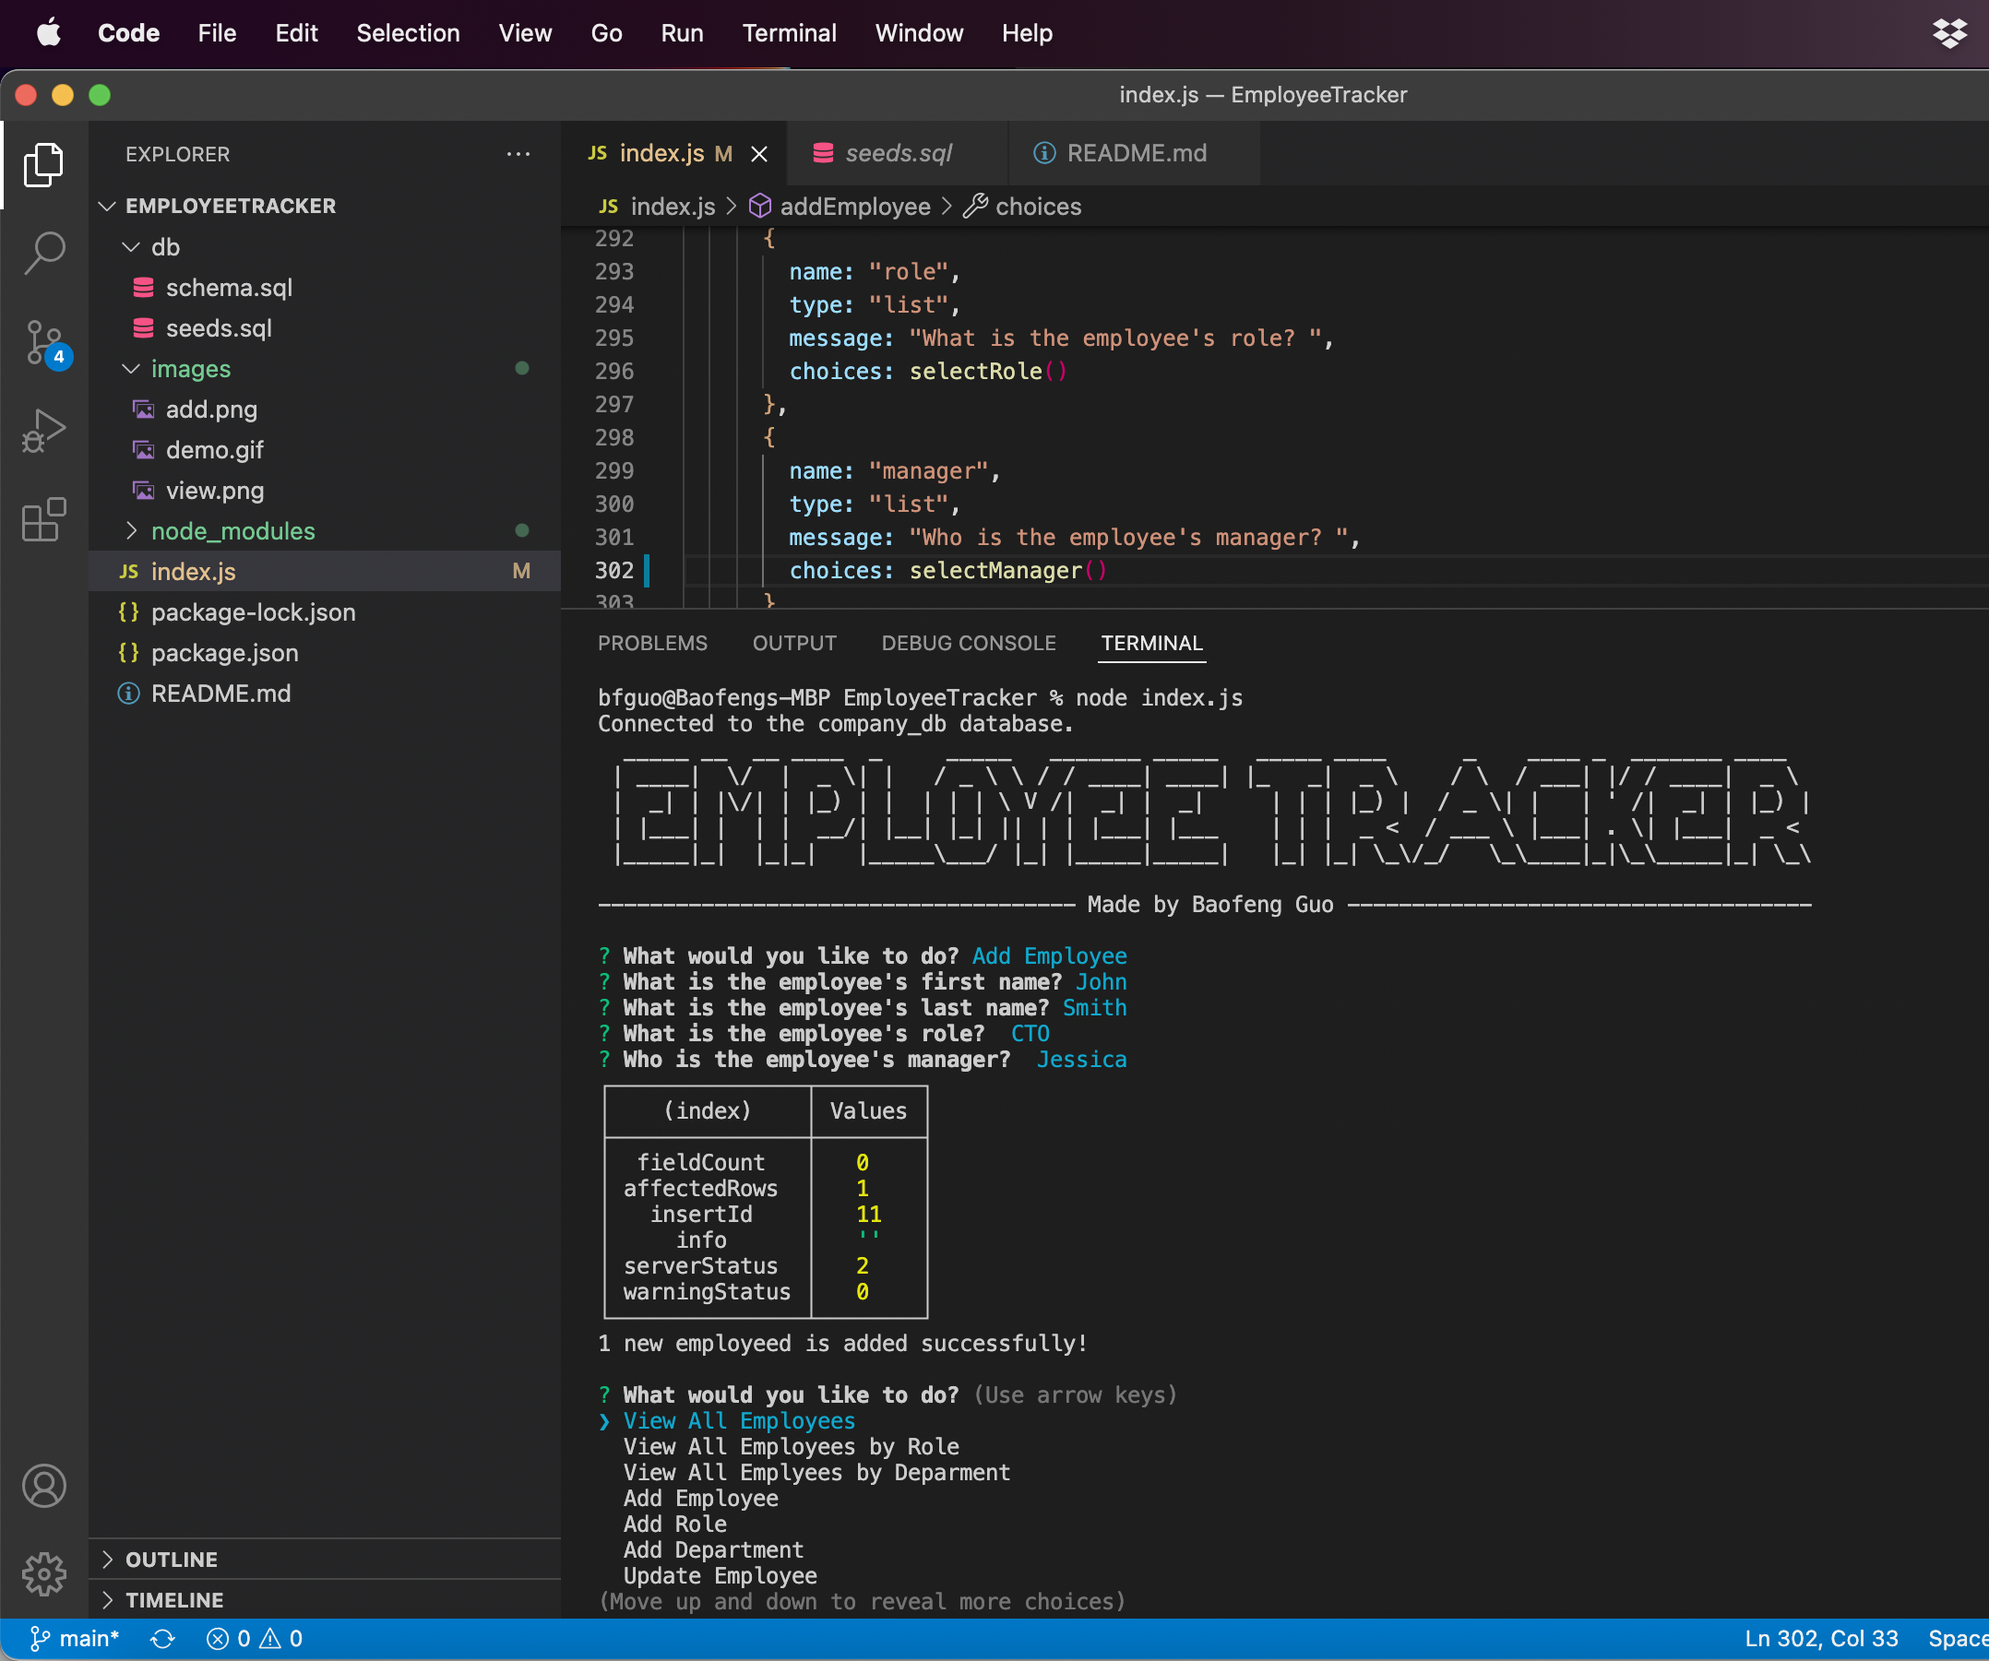
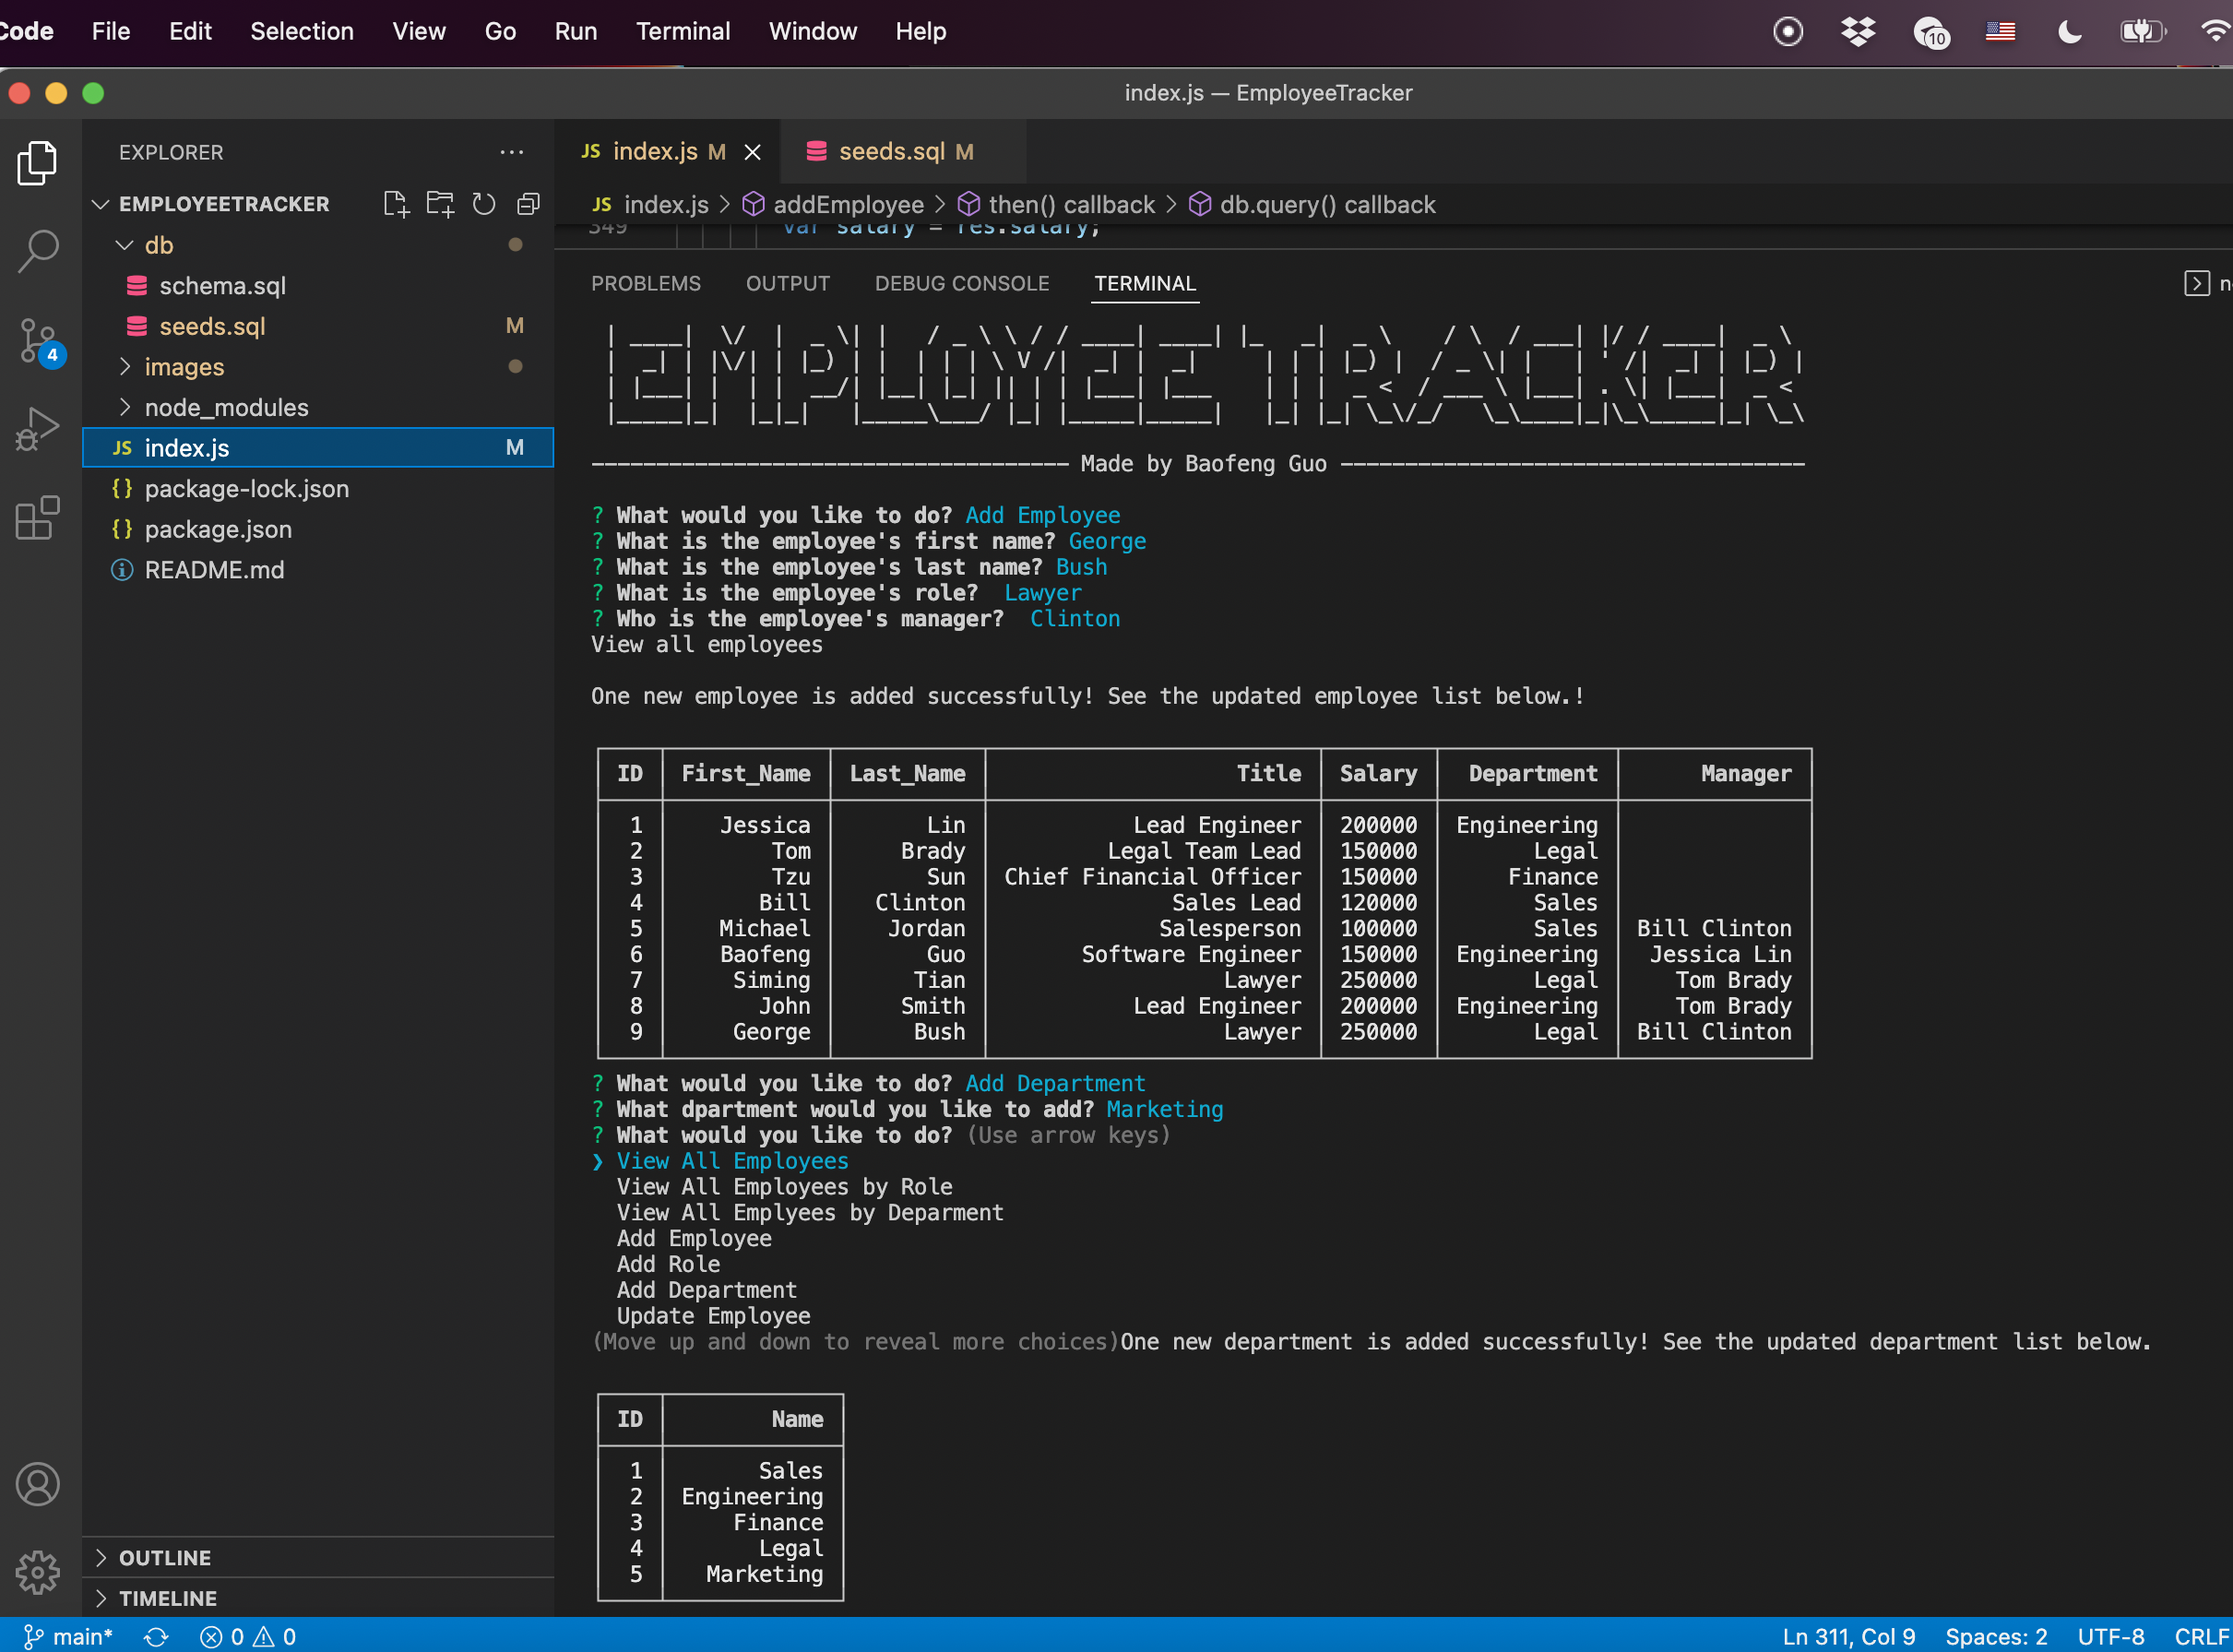
Updated index.js.

diff --git a/index.js b/index.js
@@ -78,36 +78,37 @@ function menuPrompt() {
             viewAllEmployees();
           break;
   
-        case "View All Employees by Role":
-          viewEmployeesByRole();
+          case "View All Employees by Role":
+            viewEmployeesByRole();
           break;
 
-        case "View All Emplyees by Deparment":
-          viewEmployeesByDepartment();
+          case "View All Emplyees by Deparment":
+            viewEmployeesByDepartment();
           break;
 
         // case "View All Employees by Managers":
         //     viewEmployeesByManager();
         //   break;
-        case "Add Employee":
-              addEmployee();
-            break;
 
-        case "Update Employee":
-              updateEmployee();
-            break;
+          case "Add Employee":
+            addEmployee();
+          break;
     
           case "Add Role":
-              addRole();
-            break;
+            addRole();
+          break;
     
           case "Add Department":
-              addDepartment();
-            break;
+            addDepartment();
+          break;
+
+          case "Update Employee":
+            updateEmployee();
+          break;
 
           case "Delete Role":
-              deleteRole();
-           break;
+            deleteRole();
+          break;
 
           // case "Delete Employee":
           //      deleteRole();
@@ -119,20 +120,11 @@ function menuPrompt() {
             
           case "Exit":
             db.end();
-            break;
+          break;
   
           }
   });
 }
-
-
-
-// function getManagers(){
-//   db.query(`SELECT id, first_name, CONCAT_WS(' ', first_name, last_name) AS Managers FROM employee`, (err, res) => {
-//     if (err) throw err;
-//     managers = res;
-//   })
-// };
 
 
 
@@ -200,6 +192,7 @@ function viewDepartments(){
   db.query(`SELECT id AS ID, name AS Name FROM department`, (err, res) => {
     if (err) throw err;
     printTable(res);
+
   })
 };
 
@@ -225,10 +218,10 @@ function selectRole() {
 function selectManager() {
   //Because the managers can't be their managers to themselves, whenever manager_id is null, the corresponding employee is a manager
   var query = `SELECT first_name, last_name FROM employee WHERE manager_id IS NULL`;
-  db.query(query,  (err, res) => {
+  db.query(query, (err, res) => {
     if (err) throw err
     for (var i = 0; i < res.length; i++) {
-      managerArr.push(res[i].first_name);
+      managerArr.push(res[i].last_name);
     }
 
   })
@@ -238,11 +231,11 @@ function selectManager() {
 
 // Select Employee for Update Employee prompt
 function selectEmployee(){
-  var query = `SELECT id, CONCAT_WS(' ', first_name, last_name) AS Employees FROM employee`;
+  var query = `SELECT first_name, last_name FROM employee`;
   db.query(query, (err, res) => {
     if (err) throw err;
     for (var i = 0; i < res.length; i++) {
-      employee.push(res[i].last_name);
+      employeeArr.push(res[i].last_name);
     }
   })
   return employeeArr;
@@ -304,18 +297,17 @@ function addEmployee() {
         choices: selectManager()
       }
   ]).then(function (res) {
-    //Index starting from 0
     var firstName = res.firstname;
     var lastName = res.lastname;
+    //Index starting from 0
     var roleId = selectRole().indexOf(res.role) + 1;
     var managerId = selectManager().indexOf(res.manager) + 1;
     var query =`INSERT INTO employee (first_name, last_name, manager_id, role_id) VALUES ("${firstName}", "${lastName}", "${managerId}", "${roleId}")`;
     db.query(query, (err, res) => {
         if (err) throw err
         // console.table(res);
-        console.log('----------------\n');
         viewAllEmployees();
-        console.log( `1 new employeed is added successfully!\n`);
+        console.log( `One new employee is added successfully! See the updated employee list below.\!\n`);
         
     })
 
@@ -360,13 +352,12 @@ function addRole() {
         db.query(query, (err, res) => {
                 if (err) throw err
                 //console.table(res);
-                console.log('----------------\n');
+                console.log( "One new role is added successfully! See the updated role list below.\n");
                 viewRoles();
-                console.log( "One new role is added successfully!\n");
-                menuPrompt();
+                
             }
         )
-        
+        menuPrompt();
     })
   }
 
@@ -385,12 +376,13 @@ function addDepartment() {
     db.query(query, (err, res) =>{
             if (err) throw err
             // console.table(res);
-            console.log('----------------\n');
+            console.log( "One new department is added successfully! See the updated department list below.\n");
             viewDepartments();
-            console.log( "One new department is added successfully!\n");
-            menuPrompt();
+
           }
+          
       )
+      menuPrompt();
   })
 }
 
@@ -400,16 +392,16 @@ function addDepartment() {
 function updateEmployee() {
     inquirer.prompt([
           {
-            name: "lastname",
+            name: "lastName",
             type: "list",
             message: "What's the last name of the employee you want to update with?",
-            choices: selectEmployee()
+            choices: selectEmployee(),
           },
           {
             name: "role",
             type: "list",
             message: "What is the employee's new role? ",
-            choices: selectRole()
+            choices: selectRole(),
           },
       ]).then(function(res) {
         var roleId = selectRole().indexOf(res.role) + 1
@@ -426,16 +418,15 @@ function updateEmployee() {
             if (err) throw err
             //console.table(res);
             console.log('----------------\n');
-            //view the employee list after an employee is updated.
+            //Run the function to view the employee list after an employee is updated.
             viewAllEmployees();
             console.log( "The employee is updated successfully!\n");
 
           })
           
         });
-      });
+  }
     
-      }
 
 //----------------------------------------------------------------------Delete-----------------------------------------------------------------------------//
 // "Delete Employee",
